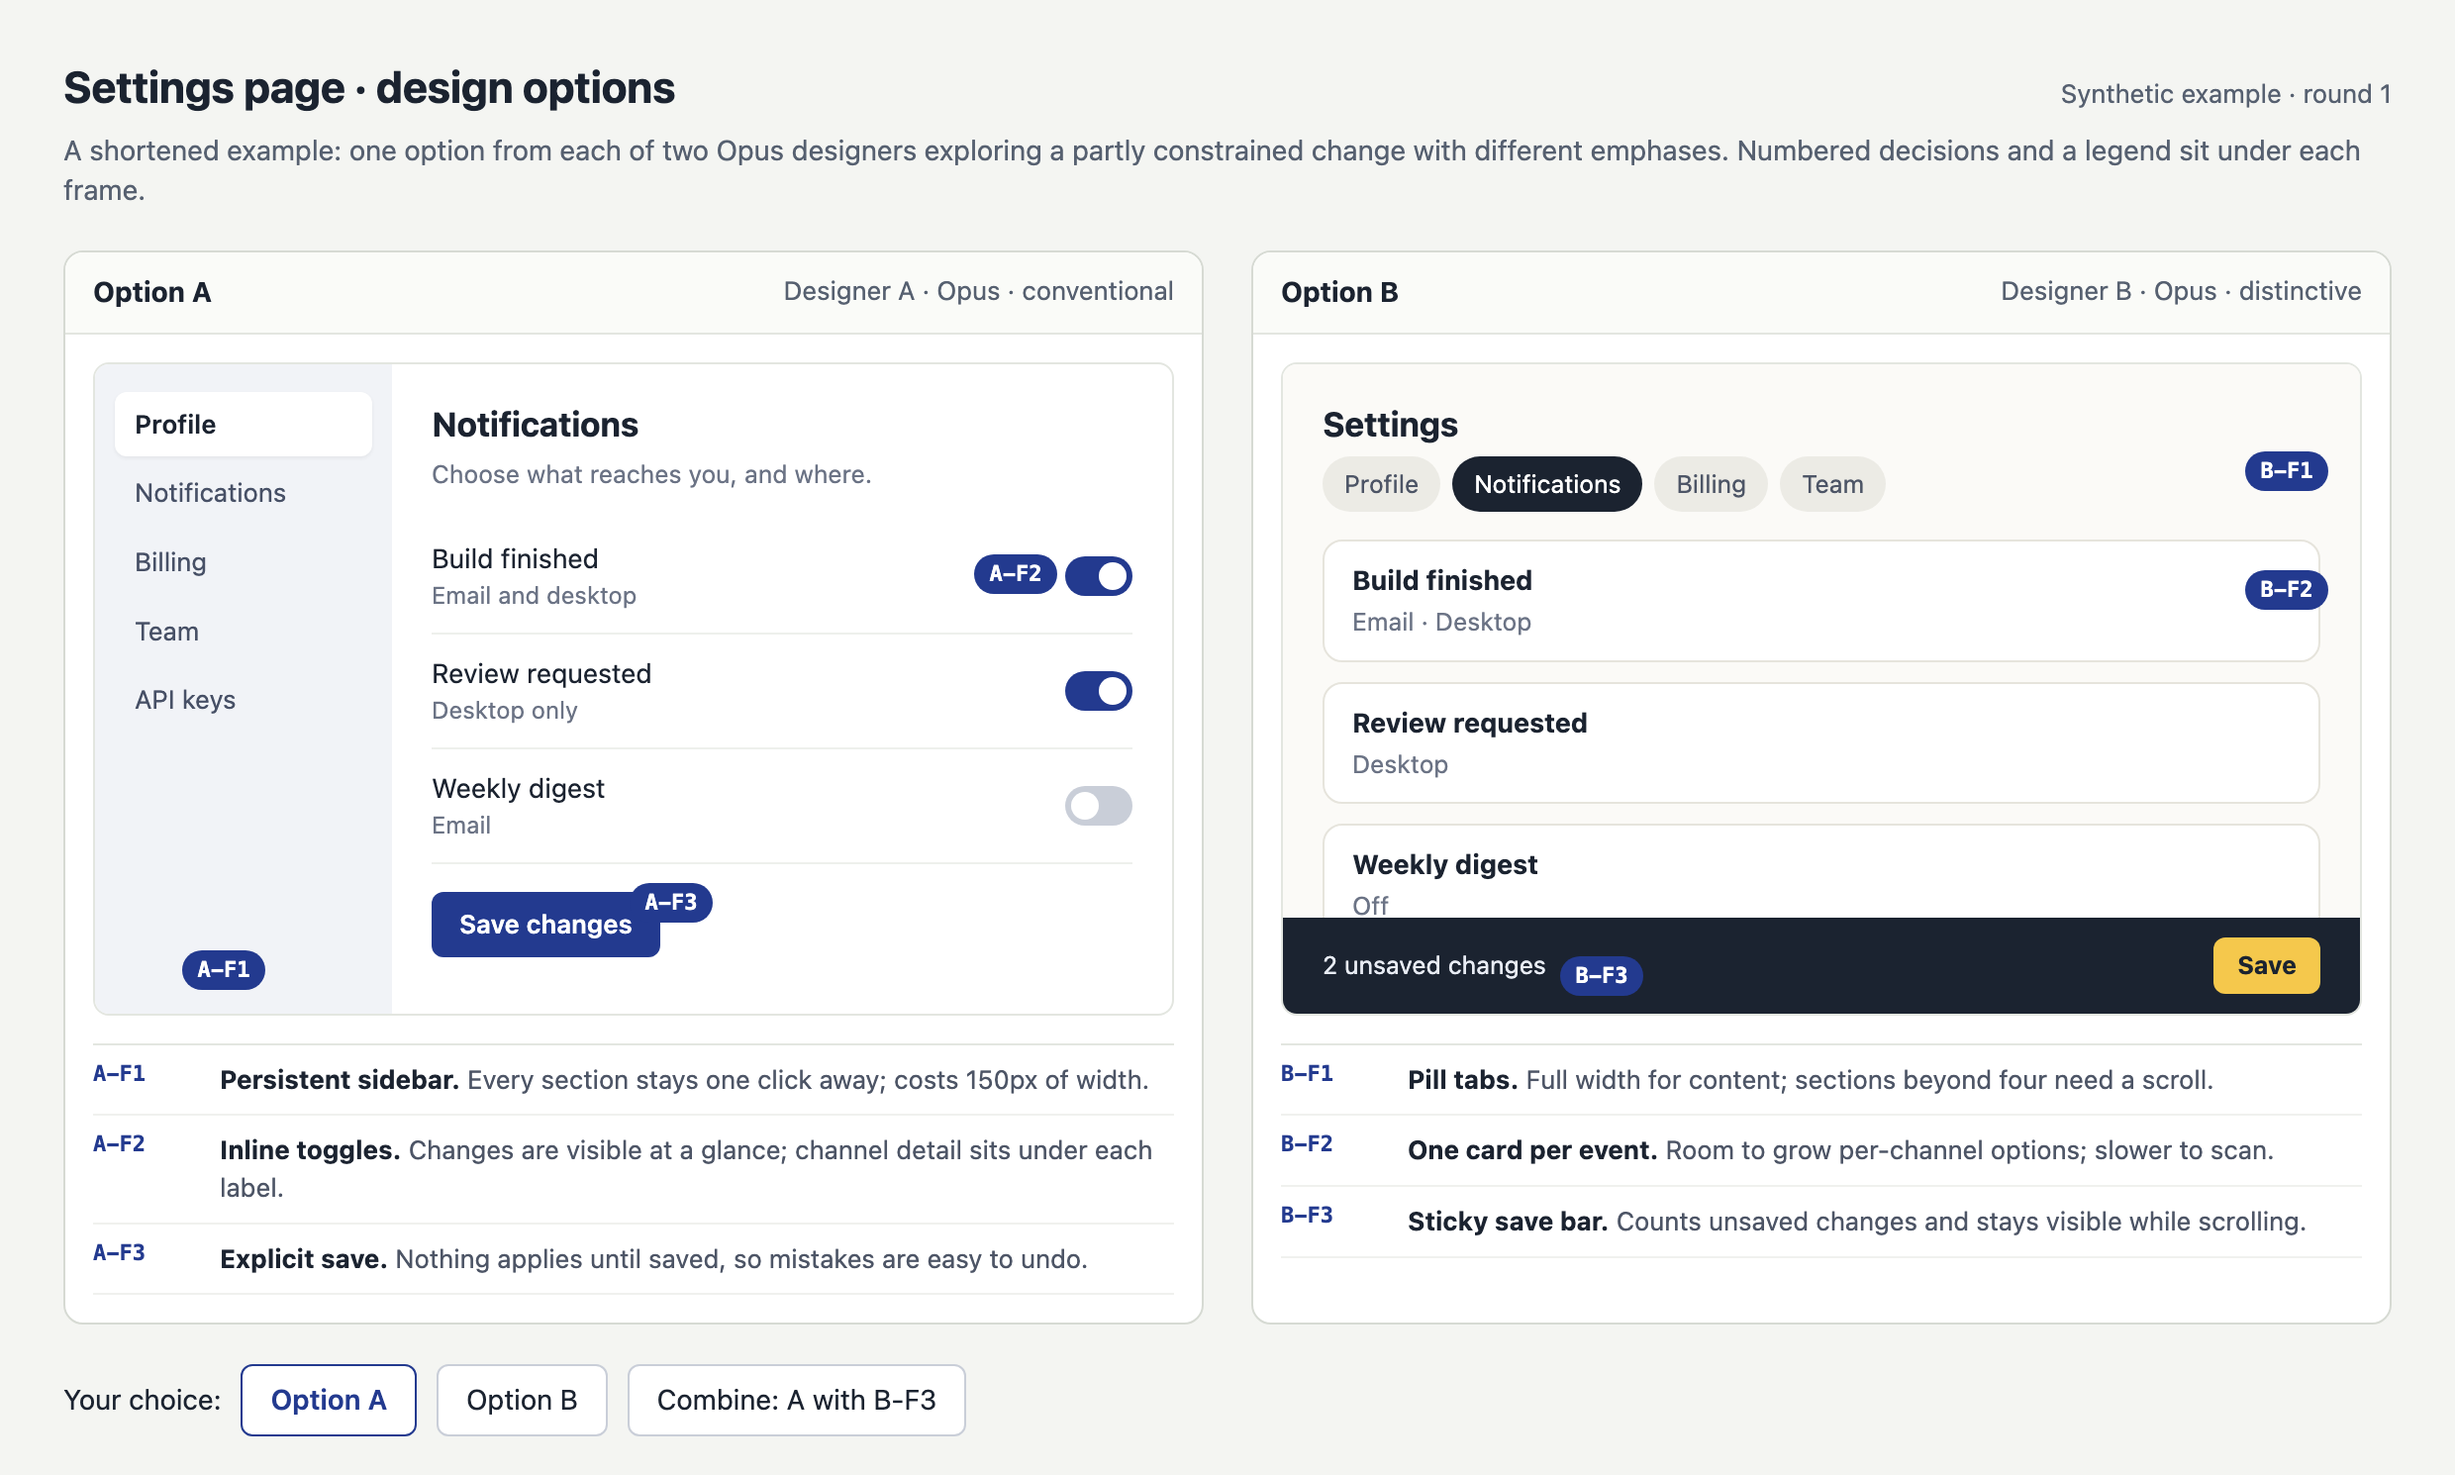
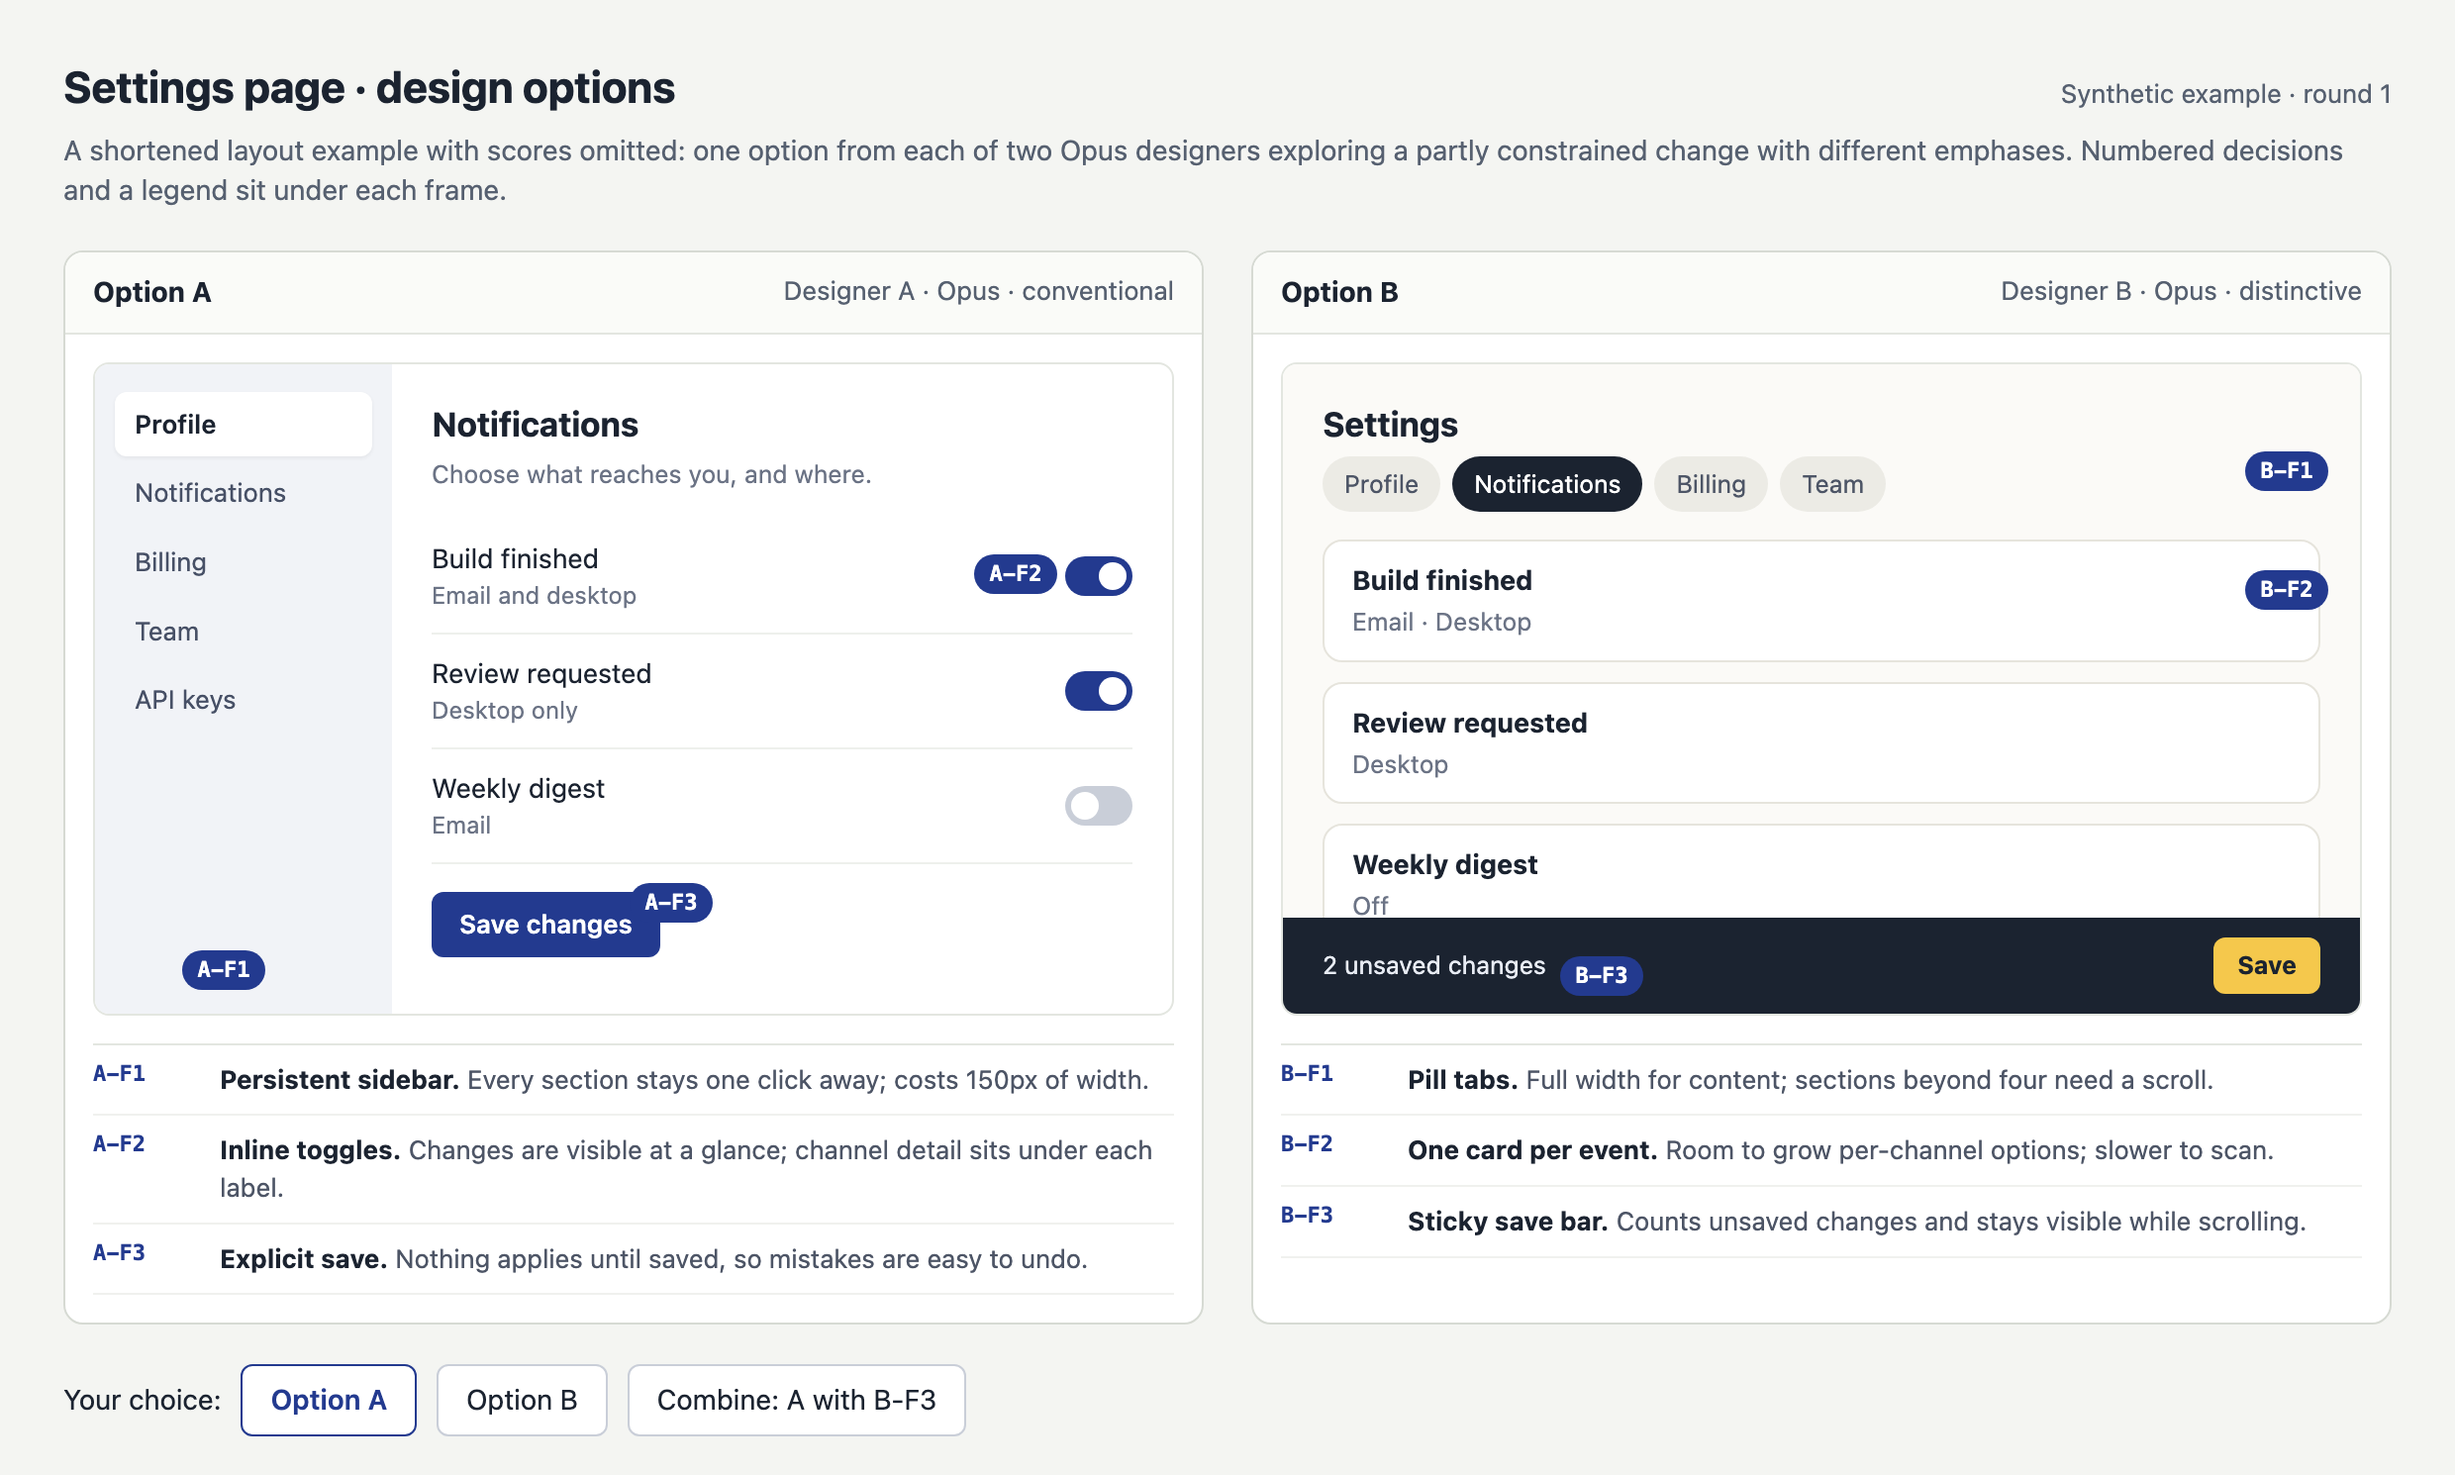
Add Neon and Sol scoring to choose-design

Changed region(s): [[0.031, 0.0926, 0.9625, 0.1544]]

diff --git a/site/index.html b/site/index.html
@@ -77,7 +77,7 @@
             <div class="skill-heading" id="install-choose-design" tabindex="-1">
               <h3>choose-design</h3>
             </div>
-            <p class="skill-description">Pick a design before building. Compare independent mockups for a new screen, redesign or unresolved UI choice.</p>
+            <p class="skill-description">Pick a design before building. Compare independent Opus mockups for a new screen, redesign or unresolved UI choice, scored by Neon and Sol.</p>
             <div class="skill-actions">
               <a class="install-action" href="#install-choose-design" aria-label="Install instructions for choose-design">Install</a>
               <a class="demo-action" data-kind="shot" href="media/choose-design.png" data-lightbox="lb-choose-design" aria-label="Screenshot of a choose-design comparison" aria-haspopup="dialog">Screenshot</a>
@@ -526,7 +526,7 @@
           <p class="tier-label">Better in T3 Code</p>
           <p class="chips"><a href="#skill-review">review</a> <a href="#skill-think">think</a> <a href="#skill-challenge">challenge</a> <a href="#skill-review-loop">review-loop</a> <a href="#skill-hillclimb">hillclimb</a> <a href="#skill-choose-design">choose-design</a> <a href="#skill-focus-group">focus-group</a> <a href="#skill-ship">ship</a> <a href="#skill-babysitter">babysitter</a> <a href="#skill-settle">settle</a></p>
           <ul>
-            <li>Reviewers and judges start on another provider from the same conversation; <code>choose-design</code> runs its designers on Opus. Code review needs a second model family; without one, the agent reports the review as unavailable.</li>
+            <li>Reviewers and judges start on another provider from the same conversation; <code>choose-design</code> runs its designers on Opus and has Neon and Sol score every option. Code review needs a second model family; without one, the agent reports the review as unavailable.</li>
             <li><code>babysitter</code> uses T3's pull request watch to wake when checks or reviews change. Elsewhere it waits with its bundled <code>pr-wait</code> helper.</li>
             <li><code>settle</code> calls T3's thread tool to close a finished thread. Without it, it reports the gap instead of claiming the thread is settled.</li>
             <li><code>ship</code>, <code>implement</code> and <code>review-loop</code> show their phases in T3's Tasks row. <code>choose-design</code> shows mockups side by side in preview frames.</li>
@@ -638,7 +638,7 @@
       <form method="dialog"><button class="lb-close" aria-label="Close">✕</button></form>
     </header>
     <a class="lb-shot" href="media/choose-design.png"><img src="media/choose-design.png" width="2480" height="1490" loading="lazy" alt="Two settings-page mockups in separate frames. Option A uses a sidebar and toggles, option B uses pill tabs, cards and a sticky save bar. Numbered markers such as A-F1 point to decisions explained in a legend under each mockup."></a>
-    <p class="lb-caption">A shortened synthetic example: one option from each of two Opus designers, who got the same base brief with different emphases and never saw each other's work. A full run returns two or three options per designer. Each frame carries numbered decisions and a legend, so you can combine parts such as “A with B-F3”.</p>
+    <p class="lb-caption">A shortened layout example: one option from each of two Opus designers, who got the same base brief with different emphases and never saw each other's work. Scores and reviewer notes are omitted. A full run returns two or three options per designer, each scored by Neon and Sol. Each frame carries numbered decisions and a legend, so you can combine parts such as “A with B-F3”.</p>
     <p class="lb-links"><a href="https://github.com/seankoji-com/.agents/blob/main/skills/choose-design/SKILL.md">Read choose-design's SKILL.md</a> · <a href="media/choose-design.png">Open full size</a></p>
   </div>
 </dialog>

diff --git a/site/workflows.html b/site/workflows.html
@@ -51,7 +51,7 @@
       <div class="facts">
         <div>
           <h3>Settle the choices that change the build</h3>
-          <p><a href="https://github.com/seankoji-com/.agents/blob/main/skills/think/SKILL.md">think</a> asks only the questions whose answers would change the next step, then has a separate reviewer confirm nothing important is open. Plans have no model-family restriction. <a href="https://github.com/seankoji-com/.agents/blob/main/skills/choose-design/SKILL.md">choose-design</a> shows mockups from two or three Opus designers, each with a different emphasis, and you pick before UI work starts. An existing design that already answers the question needs no chooser.</p>
+          <p><a href="https://github.com/seankoji-com/.agents/blob/main/skills/think/SKILL.md">think</a> asks only the questions whose answers would change the next step, then has a separate reviewer confirm nothing important is open. Plans have no model-family restriction. <a href="https://github.com/seankoji-com/.agents/blob/main/skills/choose-design/SKILL.md">choose-design</a> shows mockups from two or three Opus designers, each with a different emphasis; Neon and Sol score every option, and you pick before UI work starts. An existing design that already answers the question needs no chooser.</p>
         </div>
         <div>
           <h3>Bring evidence to the review</h3>

diff --git a/skills/choose-design/references/scoring.md b/skills/choose-design/references/scoring.md
@@ -1,0 +1,54 @@
+# Score every design option
+
+Read before dispatching design reviewers and when presenting their scores.
+
+## Roster
+
+Apply the [T3 dispatch preflight](../../agent-tuneup/references/t3-dispatch.md),
+then use Neon high and Sol high, one read-only delegate each. Both review every
+option from every designer against the base brief and existing baseline. Give
+them the option HTML and the coordinator's rendered captures. They must not see
+each other's scores before returning. They do not edit, render, delegate or
+choose a winner. Record each reviewer's observed model and effort.
+
+If a named reviewer is unavailable or incompatible, substitute Fable high for
+that slot. If Fable is also unavailable, use DeepSeek Flash high. This fallback
+is explicit: record the substitution and treat direct DeepSeek Flash dispatch as
+an exception to the review skill's removal of it from direct review.
+If both named reviewers and the fallbacks cannot run, present the options with
+the gap marked and report the run as incompletely scored. Do not silently
+substitute another model.
+
+## Dimensions
+
+Score every option from 1 to 10 on each dimension; 10 is best.
+
+- **Brief fit** — satisfies the stated requirements, content, states and fixed
+  baseline.
+- **Usability** — the main task is clear, findable and efficient at the target
+  width.
+- **Visual craft** — hierarchy, spacing, typography and consistency are
+  deliberate.
+- **Implementation fit** — uses existing tokens and components without
+  disproportionate new complexity.
+
+Do not average dimensions or declare a winner.
+
+## Return
+
+For each option:
+
+- The label.
+- One line: `Brief fit n · Usability n · Visual craft n · Implementation fit n`.
+- Two or three strengths, one sentence each.
+- Two or three weaknesses, one sentence each.
+
+Cite a feature ID where it makes the note concrete. Return one plain-text report
+to the coordinator.
+
+## Present
+
+For each option, show each reviewer's identity with its four scores, then its
+strengths and weaknesses. Keep Neon and Sol separate; do not merge or average
+them. State every substitution and any missing review. The user chooses the
+option or a hybrid.

diff --git a/skills/choose-design/SKILL.md b/skills/choose-design/SKILL.md
@@ -136,6 +136,13 @@ error; do not substitute.
 Preserve the design while checking it, except to apply the report's static
 fallback and note it in the blurb. Correct inaccurate blurbs.
 
+## Score the options
+
+After checking, send the full set to Neon and Sol in one batch. Each reviews
+read-only and independently on four dimensions, with brief strengths and
+weaknesses. Read [scoring requirements](references/scoring.md) before dispatch.
+Scores inform the choice; they do not replace it.
+
 ## Present
 
 In T3 Code, give each option its own frame, grouped by designer. For each,
@@ -144,6 +151,7 @@ measured height. Each frame opens with a header in the T3 theme variables. The
 header holds a label such as `B2 · Opus`, the option name and the blurb.
 Below the header, put the mockup in its own box with its own colours, 16px of
 padding and `var(--radius)` corners. Title each frame with its label and name.
+Show both reviewers' scores and notes.
 
 After the frames, list the labels and names in one line. Ask the user to pick an
 option or describe a hybrid using feature IDs, such as "A1-F1 with B2-F3". On hosts

diff --git a/README.md b/README.md
@@ -617,7 +617,7 @@ installed skill discovery and deployment success each need their own evidence.
 
 People changing the library should also read [AGENTS.md](AGENTS.md).
 
-<!-- skills-review: c5fb97ef4445270ca1a2912c928799ac57f4d711cf9afd0dd0ec71a3f3ba17e4 -->
+<!-- skills-review: 018b5291174805274d78ba9613a2beaf3b498f6812cced7f26151c32636e4ea7 -->
 
 ### Owner maintenance
 
